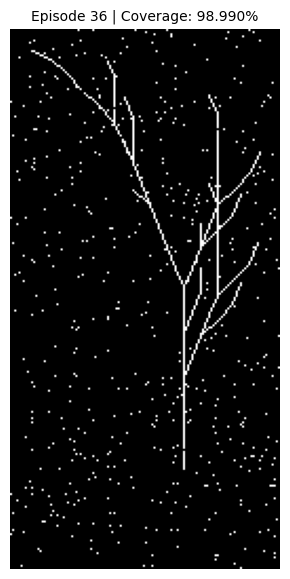
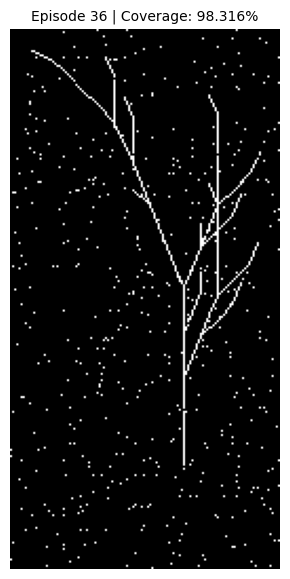
redo some row-based experiments

diff --git a/codebase/row_based_search/main.py b/codebase/row_based_search/main.py
@@ -34,7 +34,7 @@ lsys_obj = LSystem2DGenerator(axiom = "X",
                               rules = {"X": "F+[[X]-X]-F[-FX]+X",
                                        "F": "FF"})
 
-iterations = 2
+iterations = 3
 angle = 22.5
 step = 5
 
@@ -112,7 +112,7 @@ end = perf_counter()
 print(f"Training completed in {end - start:.2f} seconds.")
 
 
-fig, axs = plt.subplots(3, 1, figsize=(6, 11))
+fig, axs = plt.subplots(3, 1)
 
 axs[0].plot(range(len(rewards)), rewards)
 axs[0].set_title("Rewards")
